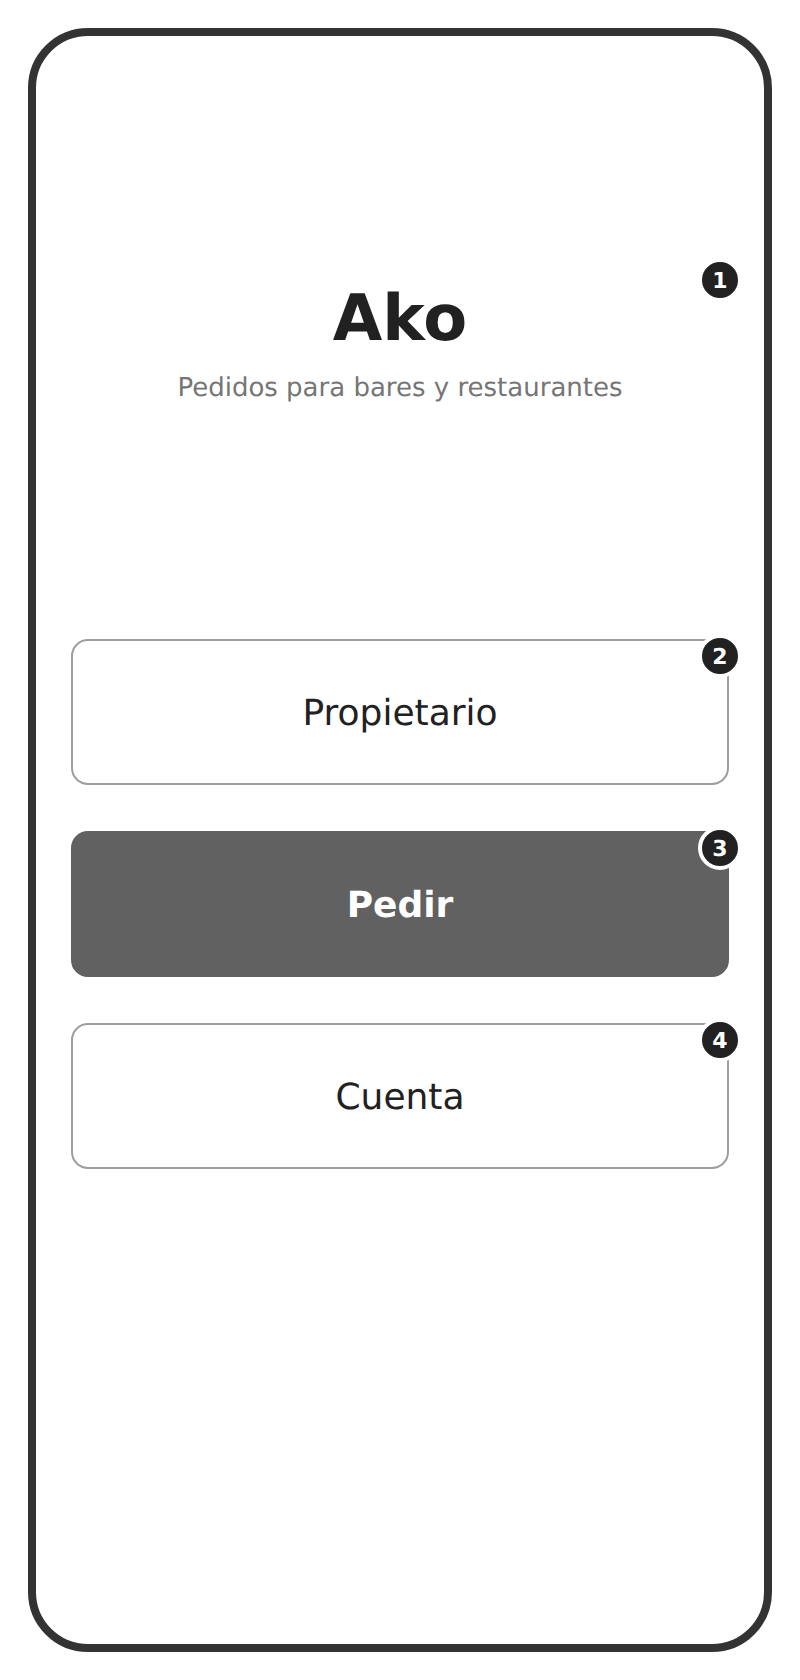
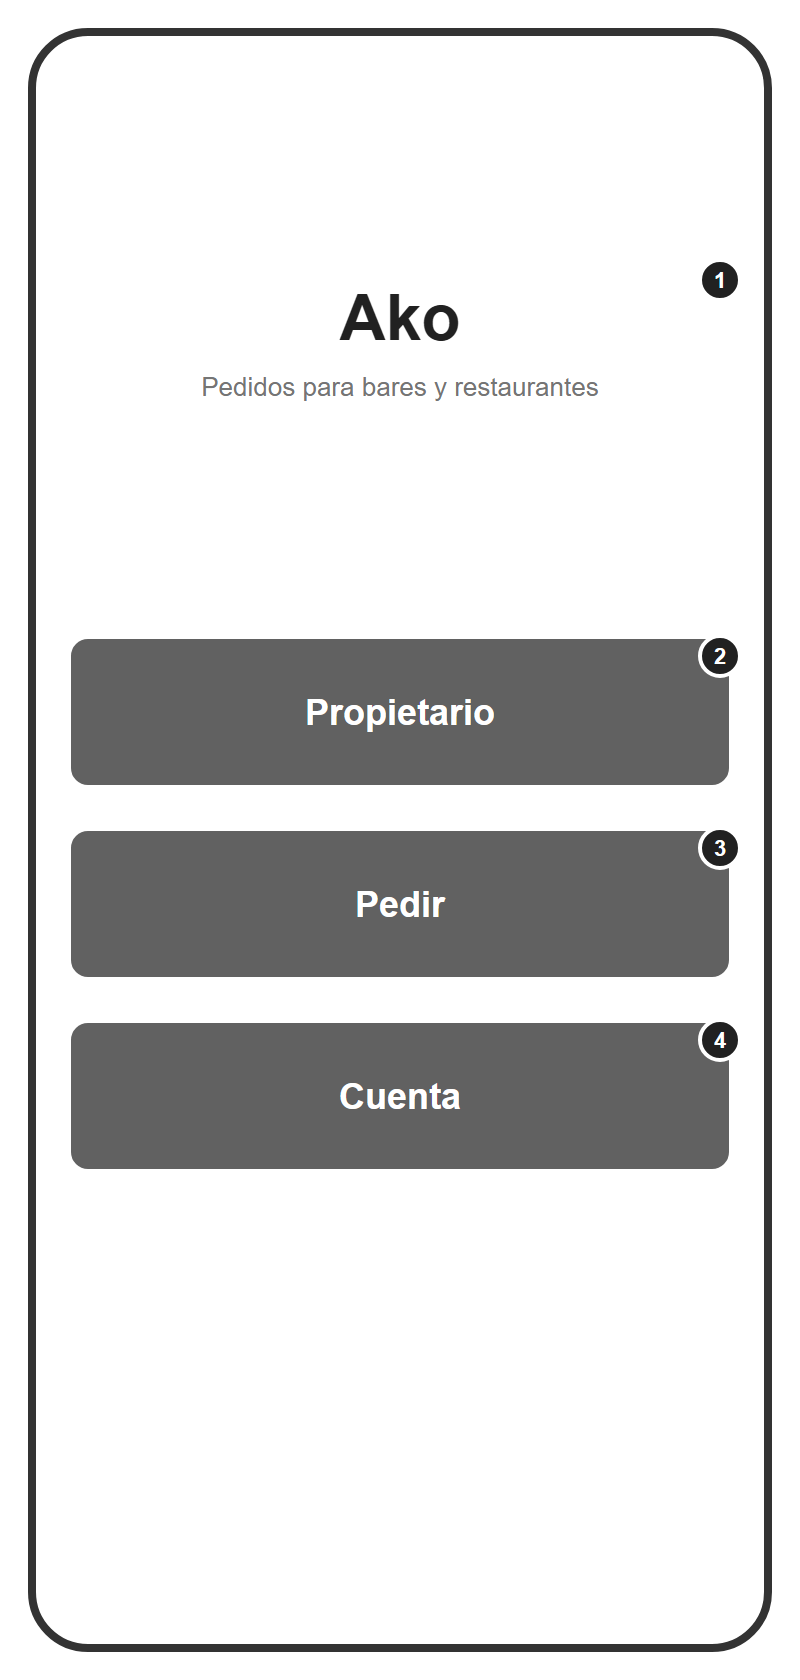
S13: (S13.5) los tres botones de 1a en naranja

diff --git a/docs/decisiones-code.md b/docs/decisiones-code.md
@@ -475,6 +475,7 @@ Los nombres los puso Daniel en su lista (`ako-nombres.md`, fuera del repositorio
 | 10 oct · **Iconos (tanda N2)** | Renombrado el 10 oct en la parte 3 de la S13.5: `ic_sin_foto` → `sin_foto`, `ic_sin_foto_grande` → `sin_foto_grande`, `ic_desplegado` → `desplegado` e `ic_editar` → `icono_editar`. `ic_launcher_*` se queda (lo pone Android). Las filas del 2 y el 8 oct que los nombran se quedan como están |
 | 10 oct · **Orientación vertical sin el aviso de Android Studio** (Daniel: «solucionalo de la forma más sencilla») | `tools:ignore="DiscouragedApi,LockedOrientationActivity"` en las 6 `<activity>` del manifiesto: Android Studio deja de tachar `screenOrientation` y lint pasa de 30 avisos a 18. No cambia la app (`tools:` no llega al móvil): sigue solo en vertical (comprobado girando el emulador). Lo de las pantallas grandes con Android 16 sigue igual y declarado (H11) |
 | 10 oct · **Fuera 42 comentarios [Claude] que no aportan** (Daniel, H3 del análisis de marcas de IA: «los comentarios tontos quítalos, que no aportan mucho y si no están no pasa nada») | Se borran enteros, con su marca, los comentarios [Claude] que alguien que sabe un poco entiende mirando el código; las 92 marcas que explican algo que no se ve a simple vista se quedan. Lo que proponían esas líneas sigue siendo propuesta de Claude; quedan apuntadas aquí: `Carrito.kt` «si la cantidad no está entre 1 y 99, no hace nada»; `ComprobadorPin.kt` ««Quien sabe comprobar un PIN»»; `FilaPlatoAdapter.kt` «qué hacer al tocar una fila: lo decide quien usa el adaptador, no el adaptador»; `MesaAdapter.kt` «sencillo, como FilaPlatoAdapter»; `MesasAfectadasDialog.kt` «es un object (no guarda nada): solo sabe escribir los avisos»; `ReciboFragment.kt` «los sobres que salen del recibo hacia quien lo aloja, y lo que lleva dentro el de lo entregado»; `ReciboFragment.kt` «los nombres de lo que va en los arguments»; `RejillaMesasFragment.kt` «← Atrás hace lo mismo que el Atrás del sistema»; `RejillaMesasFragment.kt` «el nombre del sobre y de lo que lleva dentro»; `ComandaFragment.kt` «el marco de Cuenta: su portero y la vuelta a la rejilla»; `ComandaFragment.kt` «los nombres de las dos cajas de 6b y de sus sobres»; `CuentaActivity.kt` «las líneas y el total de la libreta, al recibo, si es lo que se ve ahora»; `CategoriaAdapter.kt` «los tres timbres de la caja: lo que pasa al tocarlos lo decide el Panel»; `CategoriaBottomSheet.kt` «el Propietario ha apagado «En la carta» de una categoría que estaba en la carta?»; `CategoriaBottomSheet.kt` «lo ha encendido en una categoría eliminada?»; `CategoriaBottomSheet.kt` «el nombre de la foto elegida dentro del estado guardado de la hoja»; `CarritoFragment.kt` «el nombre de la caja de Enviar y de su sobre»; `CartaFragment.kt` «el nombre con el que se guarda en la caja fuerte»; `FichaPlatoFragment.kt` «el plato de esta ficha, para el importe del botón y para Añadir; vacío hasta que llega»; `FichaPlatoFragment.kt` «los nombres del id del plato dentro de los arguments y de lo que se guarda»; `PedidoActivity.kt` «los nombres de lo que va grapado a la nota que abre Pedir»; `PedidoActivity.kt` «el nombre de la caja «Salir sin enviar?» y de su sobre»; `PlatoActivity.kt` «sin mesas no hay nada que avisar: se guarda directamente»; `PlatoActivity.kt` «el Propietario ha apagado «En la carta» de un plato que estaba en la carta?»; `PlatoActivity.kt` «lo ha encendido en un plato eliminado?»; `PlatoActivity.kt` «los nombres de los sobres de los dos avisos 3e (cada pregunta, su sobre)»; `PlatoActivity.kt` «el sobre de «Salir sin guardar?»»; `PlatoViewModel.kt` «la categoría elegida, por su id (en la caja fuerte)»; `PlatoViewModel.kt` «se olvida la foto elegida (cuando no se ha podido usar): el hueco vuelve a la de antes»; `PlatoViewModel.kt` «la categoría vuelve con todos sus platos»; `PlatoViewModel.kt` «recuperar = vuelve a la carta con todo lo que tenía»; `PlatoViewModel.kt` «las etiquetas de cada cosa dentro de la caja fuerte»; `ResumenIngresosActivity.kt` «las líneas y el total de la comanda que se mira, al recibo, si es lo que se ve ahora»; `ResumenListaFragment.kt` «la lista, una fila debajo de otra, con una raya entre filas como en el dibujo»; `PinDialog.kt` «el nombre del sobre que deja el diálogo cuando el PIN es correcto»; `SelectorActivity.kt` «la rejilla, si es lo que se ve ahora en el contenedor; si no, vacío»; `fragment_crear_pin.xml` «con scroll, como 1a»; `strings.xml` «aviso al topar en 99 al añadir»; `strings.xml` «aviso tras enviar»; `ComandaRepositoryFalso.kt` «el actor del puesto de comandas en las pruebas»; `ComprobacionTest.kt` «cantidad entre 1 y 99»; `ComprobacionTest.kt` «el PIN son cuatro cifras» |
+| 10 oct · **Los tres botones de 1a en naranja** (Daniel: «quiero que Propietario y Cuenta también sean naranjas») | `fragment_selector.xml`: Propietario y Cuenta dejan el estilo de borde y quedan como Pedir (rellenos con el color de acento y en negrita). Redibujado el wireframe `01a-selector` (los tres rellenos), en `Imágenes\Wireframes\` y en `docs/wireframes/`, con su `.py` en `_fuente\`. Probado en el emulador de día y de noche |
 
 ## 6. Para el Project (lo que Daniel corrige en el doc)
 
